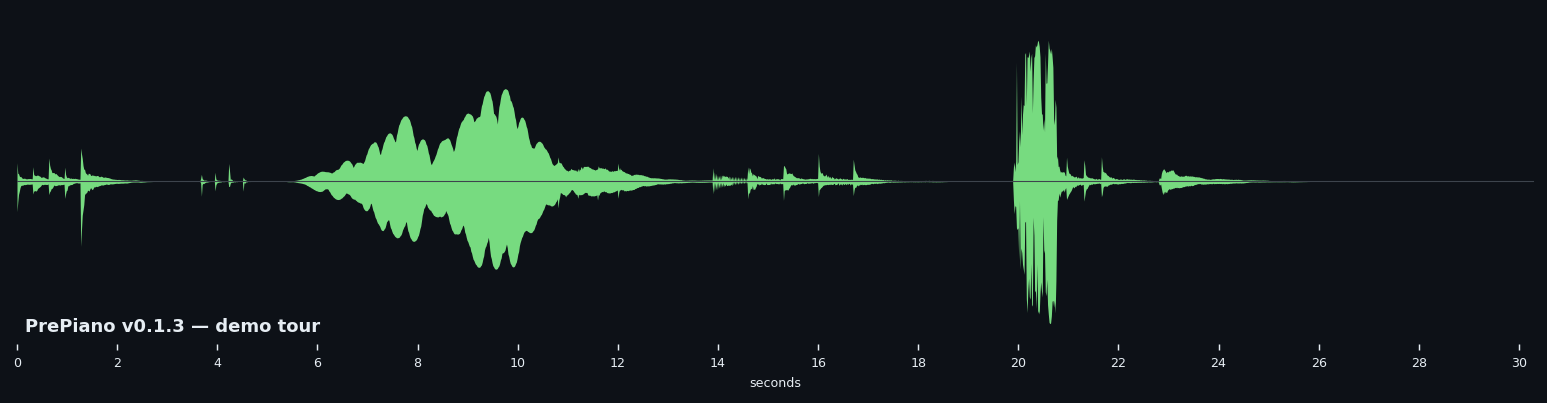
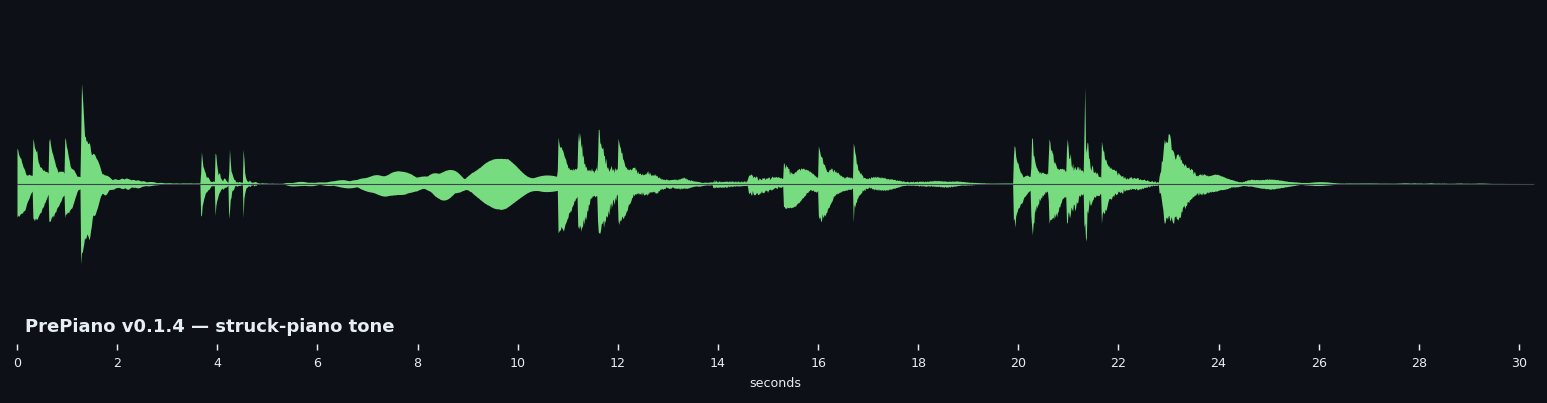
v0.1.4: struck-piano hammer model + strike comb + body; ui.js shim + drop chain_params

Changed region(s): [[0.0, 0.1191, 0.9929, 0.7742], [0.0931, 0.7742, 0.2793, 0.8337]]

diff --git a/src/modules/prepiano/ui.js b/src/modules/prepiano/ui.js
@@ -1,0 +1,8 @@
+// PrePiano — Shadow UI shim.
+// All parameter handling is driven by the Shadow UI via module.json's ui_hierarchy;
+// this file just exists so the host has something to load for JS-visible lifecycle
+// (and so the module is offered by the swap/remove menu like other synths).
+globalThis.init = function () {};
+globalThis.tick = function () {};
+globalThis.onMidiMessageInternal = function (_data) {};
+globalThis.onMidiMessageExternal = function (_data) {};

diff --git a/src/prepiano_dsp.c b/src/prepiano_dsp.c
@@ -32,6 +32,9 @@
  * 44100 / 27.5 ~= 1604 samples; round up with headroom. */
 #define PP_DELAY_MAX 2400
 
+/* soundboard body resonator count */
+#define PP_BODY_MODES 3
+
 /* ----------------------------------------------------------------------- *
  *  Small helpers
  * ----------------------------------------------------------------------- */
@@ -191,11 +194,51 @@ struct pp_state {
 
     pp_reverb_t rvb;
 
+    /* soundboard body resonance: a few broad low/mid resonators that colour
+     * the bus, adding the wood/air that separates a piano from a bare string */
+    float body_y1[PP_BODY_MODES], body_y2[PP_BODY_MODES];
+    float body_b1[PP_BODY_MODES], body_b2[PP_BODY_MODES], body_a[PP_BODY_MODES];
+
     /* master DC blocker (belt-and-suspenders after the reverb) */
     float dcx_l, dcy_l, dcx_r, dcy_r;
 
+    /* scratch buffer for building note excitations (avoids stack pressure) */
+    float scratch[PP_DELAY_MAX];
+
     uint32_t rng;          /* master RNG (note-on randomisation, RNDMZ)    */
 };
+
+/* ----------------------------------------------------------------------- *
+ *  Soundboard body resonance (a few broad 2-pole resonators)
+ * ----------------------------------------------------------------------- */
+static void body_init(pp_state_t *st) {
+    /* Broad (low-Q) resonances in the low-mid, like a piano's body/soundboard.
+     * r near 0.9 keeps them broad so they colour rather than ring. */
+    static const float freqs[PP_BODY_MODES] = { 130.0f, 260.0f, 520.0f };
+    static const float rs[PP_BODY_MODES]    = { 0.90f,  0.91f,  0.90f  };
+    for (int i = 0; i < PP_BODY_MODES; i++) {
+        float w = 2.0f * (float)M_PI * freqs[i] / st->sr;
+        float r = rs[i];
+        st->body_b1[i] = 2.0f * r * cosf(w);
+        st->body_b2[i] = -r * r;
+        st->body_a[i]  = (1.0f - r);        /* rough bandpass normalisation   */
+        st->body_y1[i] = st->body_y2[i] = 0.0f;
+    }
+}
+
+/* Run the mono bus through the body resonators; returns the added colour. */
+static inline float body_process(pp_state_t *st, float x) {
+    float out = 0.0f;
+    for (int i = 0; i < PP_BODY_MODES; i++) {
+        float y = st->body_a[i] * x
+                + st->body_b1[i] * st->body_y1[i]
+                + st->body_b2[i] * st->body_y2[i];
+        st->body_y2[i] = st->body_y1[i];
+        st->body_y1[i] = y;
+        out += y;
+    }
+    return out;
+}
 
 /* ----------------------------------------------------------------------- *
  *  Reverb construction / processing
@@ -404,7 +447,7 @@ static void voice_configure(pp_state_t *st, pp_voice_t *v, int note, int vel) {
 
     static const float cents3[3] = { 0.0f, 2.5f, -2.5f };
     static const float cents2[2] = { 0.0f, 2.8f };
-    float hammer_lp = pp_lerp(0.85f, 0.05f, hammer); /* soft=darker burst */
+    float softness = 1.0f - hammer;   /* 1 = soft felt, 0 = metal */
 
     for (int sidx = 0; sidx < v->nstr; sidx++) {
         pp_string_t *s = &v->str[sidx];
@@ -415,21 +458,41 @@ static void voice_configure(pp_state_t *st, pp_voice_t *v, int note, int vel) {
         if (sd > (float)(PP_DELAY_MAX - 2)) sd = (float)(PP_DELAY_MAX - 2);
         s->delay = sd;
         int N = (int)sd + 1; if (N > PP_DELAY_MAX) N = PP_DELAY_MAX;
-        /* write pointer one delay ahead so the read traverses the burst first */
         s->widx = (int)sd; if (s->widx >= PP_DELAY_MAX) s->widx = PP_DELAY_MAX - 1;
-        int burst = v->exc_len < N ? v->exc_len : N;
-        float lp = 0.0f;
+
+        /* --- hammer strike excitation ---
+         * Build a smooth raised-cosine hammer force pulse (its width sets the
+         * spectral rolloff: wide/soft -> fundamental-heavy and mellow,
+         * narrow/metal -> bright), add a little coloured noise for life, then
+         * apply the strike-position comb (1 - z^-d), d ~ N/8. That comb imposes
+         * the piano's sin(k*pi*beta) mode weighting and the signature
+         * missing-7th notch -- the difference between a struck piano and the
+         * plucked, hollow clav tone the old white-noise burst produced. */
+        float *tmp = st->scratch;
+        int hw = (int)((0.05f + 0.22f * softness) * N) + 2;   /* pulse half-width */
+        if (hw > N / 2) hw = N / 2;
+        if (hw < 2) hw = 2;
+        for (int i = 0; i < N; i++) tmp[i] = 0.0f;
+        for (int j = -hw; j <= hw; j++) {
+            int idx = ((j % N) + N) % N;
+            tmp[idx] += 0.5f * (1.0f + cosf((float)M_PI * j / hw));
+        }
+        float nz_amt = 0.05f + 0.22f * hammer;                /* metal = livelier */
+        float ncoef  = pp_lerp(0.65f, 0.10f, hammer);
+        float nlp = 0.0f;
+        for (int i = 0; i < N; i++) {
+            float nz = pp_frand_bi(&v->rng);
+            nlp = pp_lerp(nz, nlp, ncoef);
+            tmp[i] += nlp * nz_amt;
+        }
+        int d = (int)(0.125f * N + 0.5f);                     /* strike ~ 1/8    */
+        if (d < 1) d = 1;
+        if (d >= N) d = N - 1;
+        float norm = v->exc_gain * (5.5f / (float)hw);        /* level normalise */
         for (int i = 0; i < PP_DELAY_MAX; i++) s->buf[i] = 0.0f;
         for (int i = 0; i < N; i++) {
-            float e = 0.0f;
-            if (i < burst) {
-                float w = 0.5f - 0.5f * cosf(2.0f * (float)M_PI * i / burst);
-                float nz = pp_frand_bi(&v->rng);       /* per-string -> decorrelated */
-                lp = pp_lerp(nz, lp, hammer_lp);
-                float click = (i < 2) ? (hammer * (1.0f - hammer_lp)) : 0.0f;
-                e = (lp + click) * w;
-            }
-            s->buf[i] = e * v->exc_gain;
+            int pidx = i - d; if (pidx < 0) pidx += N;
+            s->buf[i] = (tmp[i] - tmp[pidx]) * norm;
         }
         s->damp_z = s->ap_z = s->ap_x = s->dc_x = s->dc_y = 0.0f;
     }
@@ -529,9 +592,9 @@ static inline float voice_tick(pp_state_t *st, pp_voice_t *v, float *symp_in) {
             float nz = pp_frand_bi(&v->rng);
             v->bow_lp = pp_lerp(nz, v->bow_lp, 0.6f);
             float drive = v->bow_amt * (0.05f + 0.15f * v->vel);
-            float head = 1.0f - (loop >= 0 ? loop : -loop);
+            float head = 0.30f - (loop >= 0 ? loop : -loop);   /* cap bowed level */
             if (head < 0.0f) head = 0.0f;
-            loop += (v->bow_lp * 0.5f + 0.5f * pp_tanhf(loop * 2.0f)) * drive * 0.15f * head;
+            loop += (v->bow_lp * 0.5f + 0.5f * pp_tanhf(loop * 2.0f)) * drive * 0.08f * head;
         }
 
         /* DC blocker in the feedback path */
@@ -558,7 +621,7 @@ static inline float voice_tick(pp_state_t *st, pp_voice_t *v, float *symp_in) {
 
     /* cull: released and quiet for a short while */
     float a = out >= 0 ? out : -out;
-    if (!v->held && a < 2.0e-4f) {
+    if (!v->held && a < 5.0e-5f) {
         if (++v->quiet > 2400) v->age = -1;   /* ~55 ms below floor */
     } else {
         v->quiet = 0;
@@ -608,7 +671,7 @@ pp_state_t *pp_create(float sample_rate) {
     st->p[PP_P_ATTACK]      = 0.0f;
     st->p[PP_P_DECAY]       = 0.55f;
     st->p[PP_P_GAUGE]       = 0.2f;
-    st->p[PP_P_HAMMER]      = 0.4f;
+    st->p[PP_P_HAMMER]      = 0.28f;
     st->p[PP_P_SYMPATHETIC] = 0.25f;
     st->p[PP_P_DISTURB]     = 0.0f;
     st->p[PP_P_REVERB]      = 0.25f;
@@ -618,6 +681,7 @@ pp_state_t *pp_create(float sample_rate) {
     for (int i = 0; i < PP_MAX_VOICES; i++) voice_silence(&st->voices[i]);
     symp_init(st);
     reverb_init(&st->rvb, st->sr);
+    body_init(st);
     return st;
 }
 
@@ -628,6 +692,7 @@ void pp_reset(pp_state_t *st) {
     for (int i = 0; i < PP_MAX_VOICES; i++) voice_silence(&st->voices[i]);
     symp_init(st);
     reverb_init(&st->rvb, st->sr);
+    body_init(st);
 }
 
 void pp_seed(pp_state_t *st, uint32_t seed) { if (st) st->rng = seed ? seed : 1u; }
@@ -735,6 +800,12 @@ void pp_render_float(pp_state_t *st, float *out_l, float *out_r, int n) {
         mix_l += symp_out;
         mix_r += symp_out;
 
+        /* soundboard body resonance: colour the mono sum and fold it back in,
+         * adding the wood/air a bare string lacks */
+        float body = body_process(st, (mix_l + mix_r) * 0.5f) * 0.12f;
+        mix_l += body;
+        mix_r += body;
+
         /* headroom / gentle bus saturation before reverb, then master trim */
         mix_l = pp_tanhf(mix_l * 0.5f) * 0.85f;
         mix_r = pp_tanhf(mix_r * 0.5f) * 0.85f;
@@ -746,8 +817,8 @@ void pp_render_float(pp_state_t *st, float *out_l, float *out_r, int n) {
         float hl = l - st->dcx_l + 0.999f * st->dcy_l; st->dcx_l = l; st->dcy_l = hl;
         float hr = r - st->dcx_r + 0.999f * st->dcy_r; st->dcx_r = r; st->dcy_r = hr;
 
-        out_l[f] = hl * 1.10f;
-        out_r[f] = hr * 1.10f;
+        out_l[f] = hl * 1.3f;
+        out_r[f] = hr * 1.3f;
     }
 }
 